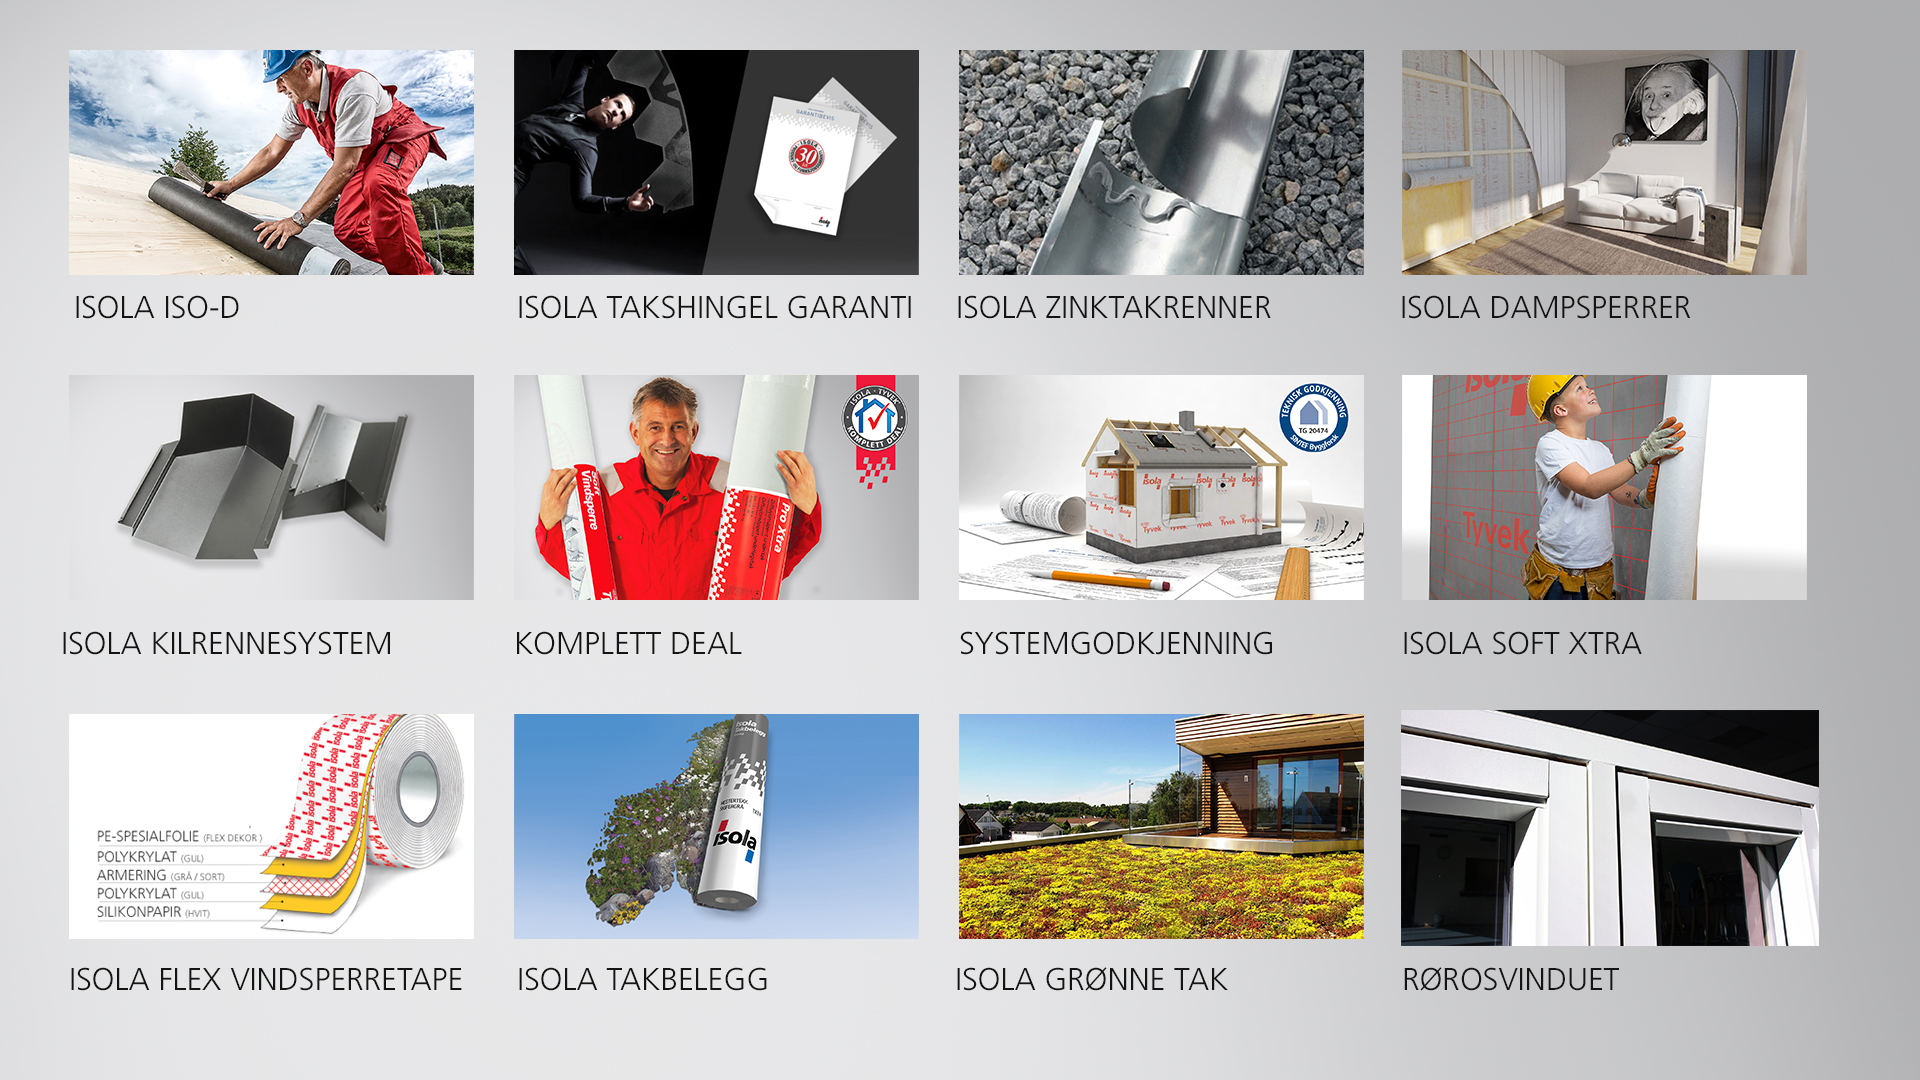
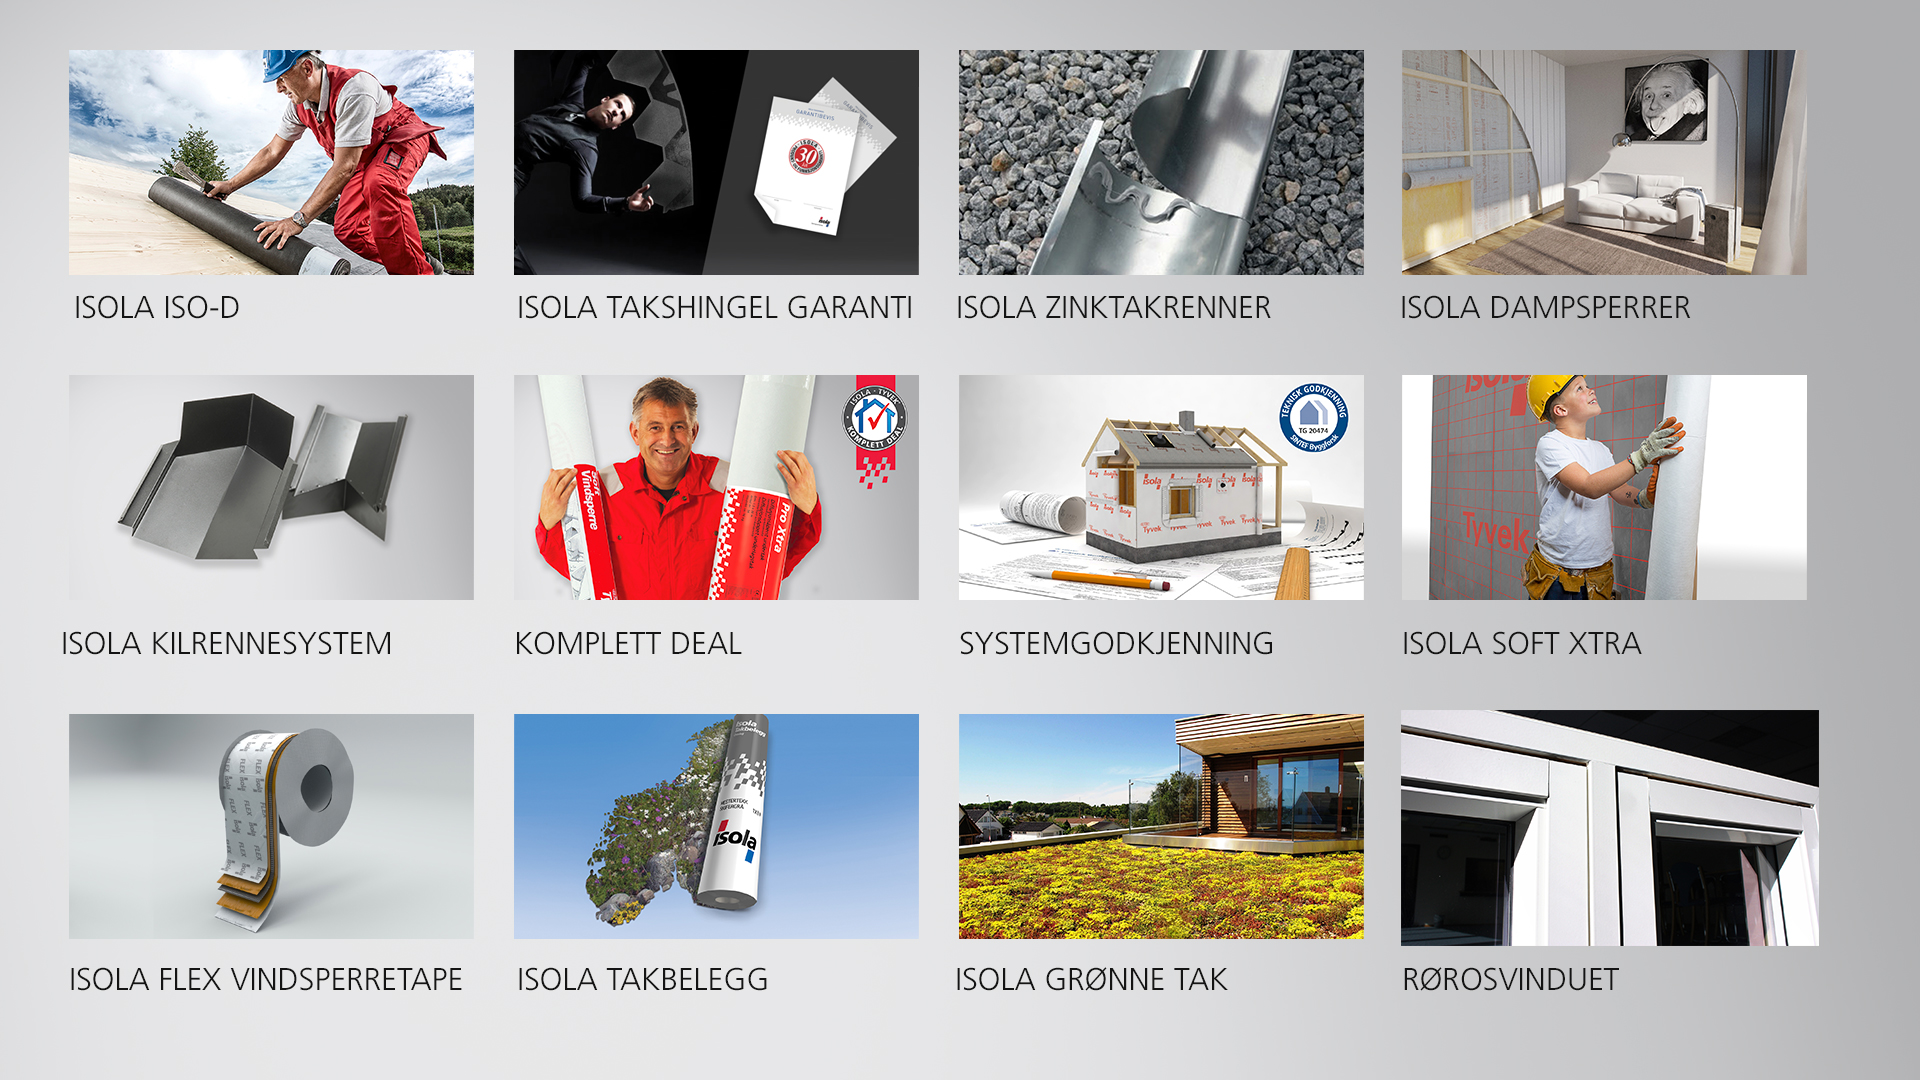
Tape

Changed region(s): [[0.0312, 0.6417, 0.25, 0.8861]]

diff --git a/presentation/nyheter.jsx b/presentation/nyheter.jsx
@@ -20,10 +20,11 @@ const images = {
     gronnetak: require("./nyheter/Gronnetak_1.jpg"),
     dampsperrer: require("./nyheter/Dampsperrer_1.jpg"),
     rorosvinduet: require("./nyheter/Rorosvinduet_1.jpg"),
-    zink: require("./nyheter/Zink_1.jpg")
+    zink: require("./nyheter/Zink_1.jpg"),
+    tape: require("./tape/tape_1.jpg")
 };
 
-preloader([images.isod]);
+preloader([images.isod, images.kilrenne ,images.komplettdeal, images.softxtra, images.systemgodkjennig, images.gronnetak, images.dampsperrer, images.rorosvinduet, images.zink, images.tape]);
 
    class News extends React.Component {
     constructor(props) {
@@ -61,13 +62,14 @@ preloader([images.isod]);
 			              <Slide bgImage={images.isod } tickerText="NYTT UNDERLAGSBELEGG MED SELVKLEBENDE OMLEGG" />
 			              <Slide bgImage={images.kilrenne } tickerText="KOMPLETT SYSTEM SOM FORENKLER HÅNDVERKERS HVERDAG" />
 			              <Slide bgImage={images.komplettdeal } tickerText="Nytt og lønnsomt Isola-Tyvek proffkonsept" />
+			              <Slide bgImage={images.tape } tickerText="Xtra sterk, monteringsvennlig, fuktsikker, robust og aldringsbestandig." />
 			              <Slide bgImage={images.softxtra } tickerText="Ny generasjon vindsperre - xtra sterk - xtra monterinsvennlig" />
 			              <Slide bgImage={images.systemgodkjennig } tickerText="Først i landet med SINTEF Byggforsk systemgodkjenning" />
 			              <Slide bgImage={images.zink } tickerText="MONTERINGVENNLIG OG KOMPLETT SORTIMENT" />
 			              <Slide bgImage={images.shingel } tickerText="30 ÅRS GARANTI PÅ PRODUKTET" />
 			              <Slide bgImage={images.gronnetak } tickerText="For fremtidens bymiljø" />
 			              <Slide bgImage={images.dampsperrer } tickerText="Smarte løsninger" />
-			              <Slide bgImage={images.rorosvinduet } tickerText="Nye aluminiumsbeklede vinduer fra RøroS" />
+			              <Slide bgImage={images.rorosvinduet } tickerText="Nye aluminiumsbeklede vinduer fra Røros" />
 
                 </Deck>
             </div>

diff --git a/presentation/images.jsx b/presentation/images.jsx
@@ -14,7 +14,8 @@ const images = {
     kilrenne: require("./kilrenne/Kilrenne_2.jpg"),
     softxtra: require("./softxtra/SoftXtra_2.jpg"),
     zink: require("./zink/Zink_2.jpg"),
-    shingel: require("./shingel/Shingel_2.jpg")
+    shingel: require("./shingel/Shingel_2.jpg"),
+    tape: require("./tape/tape_2.jpg")
 };
 
 preloader([images.isod, images.kilrenne, images.softxtra, images.zink, images.shingel]);
@@ -34,6 +35,7 @@ class Images extends React.Component {
 				    <Slide bgImage={images.softxtra} id="softxtra" />
 				    <Slide bgImage={images.zink} id="zink" />
 				    <Slide bgImage={images.shingel} id="shingel" />
+				    <Slide bgImage={images.tape} id="tape" />
 
                 </Deck>
             </div>
